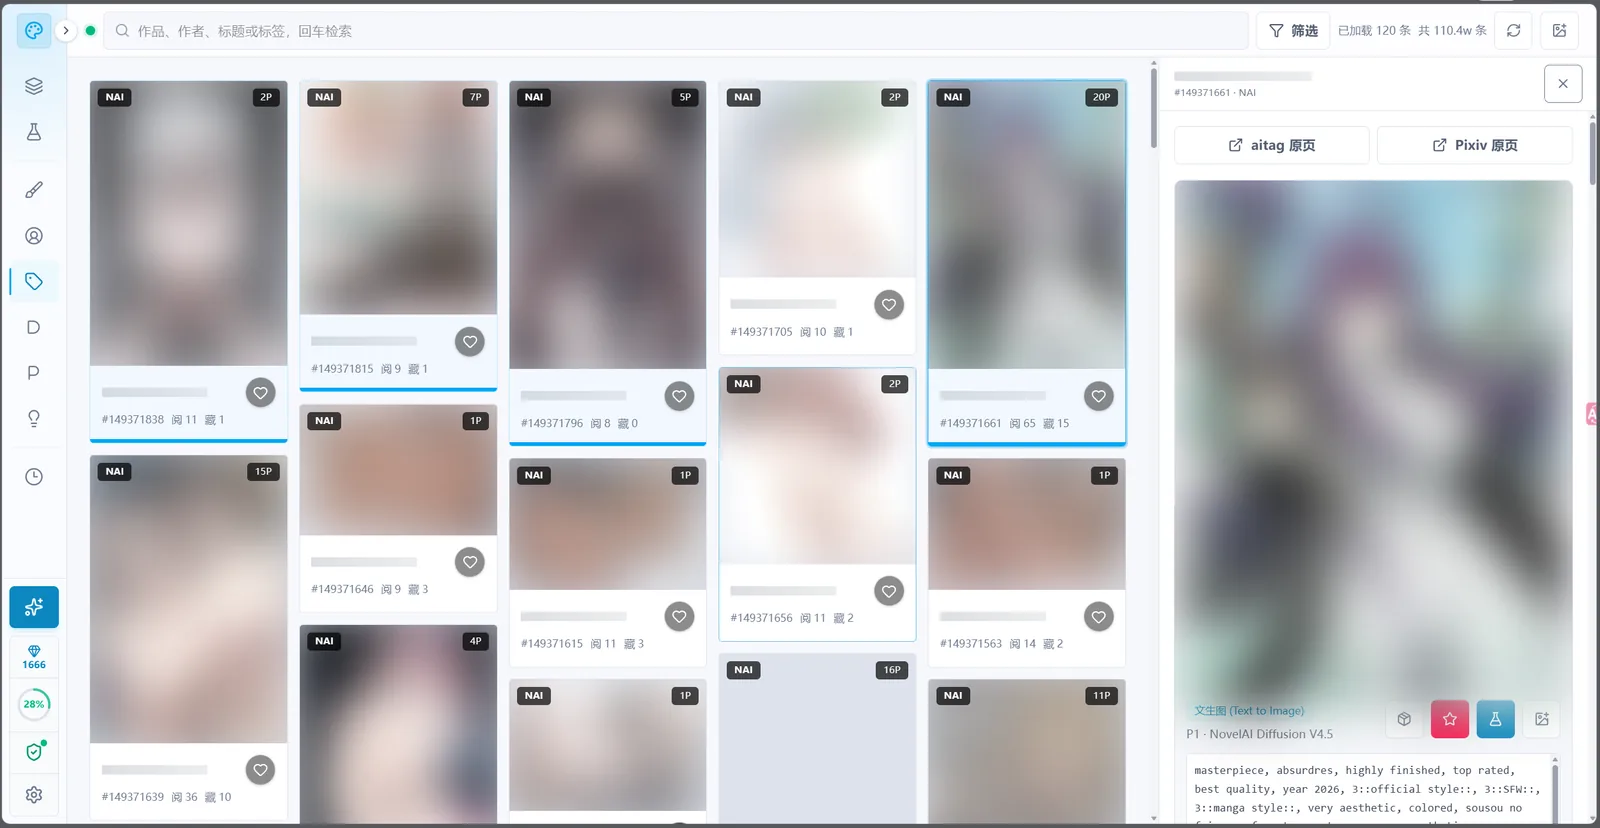
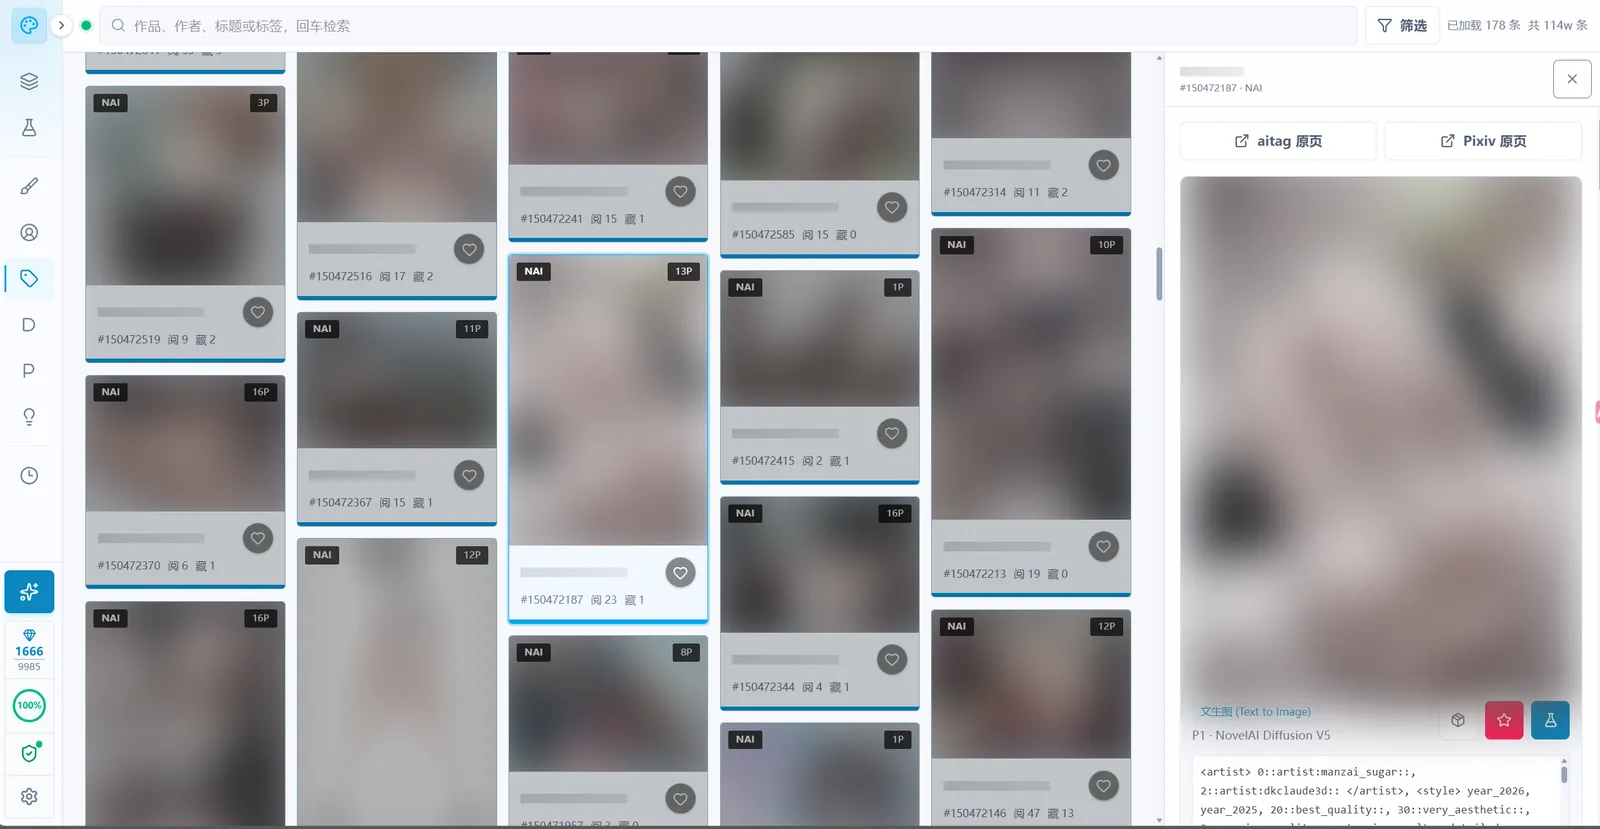
docs: upgrade screenshots with sharp webp compression and polish copy

diff --git a/AI_WORKLOG.md b/AI_WORKLOG.md
@@ -6,6 +6,8 @@
 
 ## 2026-10-05
 
+- **Antigravity（Gemini 3.8 Flash）**：处理用户桌面新截屏，将 9 张截图经 Sharp 高清压缩并全部纳入 README（替换旧图并新增生成历史画廊、Agent 工作台、收集模式置顶窗、手机端资源库弹窗与外观治理设置），同步打磨对应图文排版，更新 CHANGELOG 并递增 patch 版本。
+
 - **Antigravity（Gemini 3.8 Flash）**：在 README 中补充低消耗模式、角色框粘贴反推与收集模式置顶小窗体验；校准 Vibe 为官方能力复现与本地资产化增强；同步更新 CHANGELOG 并递增 patch 版本。
 
 - **Antigravity（Gemini 3.8 Flash）**：全面脱水精简 README.md（体积减少 82%，精炼至 345 行），叙述重心从“技术如何实现”彻底转为“使用时能够获得什么创作体验”；将酒馆/st-chatu8 深度桥接规格抽离至 docs/SILLYTAVERN_BRIDGE.md；突出移动端心流、资产沉淀、智能防超额与数据红线；同步更新 CHANGELOG 并递增 patch 版本。

diff --git a/CHANGELOG.md b/CHANGELOG.md
@@ -4,6 +4,12 @@
 
 ## 2026-10-05
 
+### 文档：全套实机截图升级与视觉图文体验打磨
+
+- 将桌面端与移动端核心截图全面升级为最新高分版本，通过 Sharp 极限压缩（平均单图体积 10~40 KB），大幅提升文档加载速度与清晰度。
+- 新增「万张生成历史画廊」、「项目 Agent 工作台对话特写」、「Windows 收集模式置顶小窗」、「手机端资源库快捷入口」与「外观治理及个性化主题」实机配图。
+- 同步打磨 README 对应小节的图文排版与文案细节，直观呈现沉浸式创作体验。
+
 ### 文档：补充低消耗模式等特色体验与 Vibe 官方属性校准
 
 - 补充 Opus「低消耗模式」专属防护、多角色「粘贴反推（Paste-to-Tag）」与 Windows「收集模式置顶悬浮窗」的具体创作体验说明。
